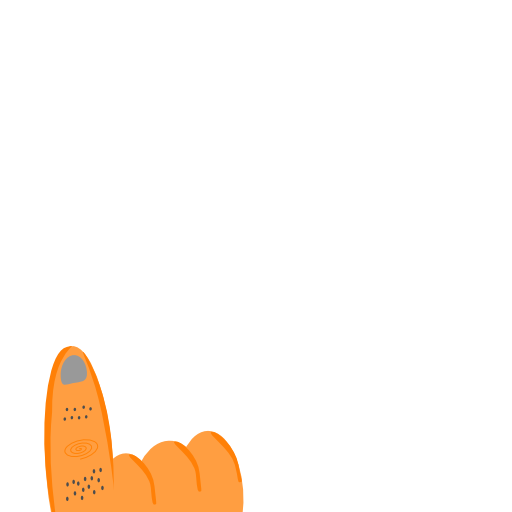
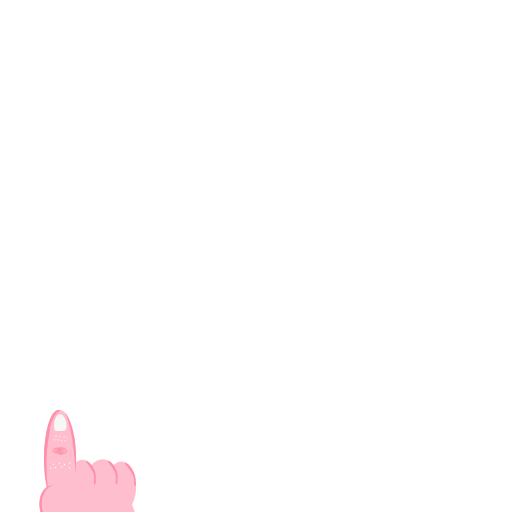
add new texture
for future add other texture for resume quit restart ecc...must fix zoom
font on screen,and locked people must be alert only 1 time and change
font

Changed region(s): [[0.0625, 0.6562, 0.5, 1.0]]

diff --git a/superjumper/src/com/badlogicgames/superjumper/CharScreen.java b/superjumper/src/com/badlogicgames/superjumper/CharScreen.java
@@ -158,7 +158,7 @@ public class CharScreen implements Screen {
 				return;
 			}
 			else if (OverlapTester.pointInRectangle(character, touchPoint.x, touchPoint.y)) {
-				Assets.playSound(Assets.clickSound);
+				//Assets.playSound(Assets.clickSound);
 			if(state==0)state=1;
 			else state=0;
 				return;
@@ -207,9 +207,9 @@ public class CharScreen implements Screen {
 		batcher.draw(Assets.icontextback,0,10,45,45);
 		Assets.font.draw(batcher, "Choose Character", 29,440);
 		Assets.fontsmall.draw(batcher, "GO", 285,40);
-		stateTime=stateTime+0.015f;
+		stateTime=stateTime+0.020f;
 	  TextureRegion keyFrame1 = Assets.swipeAnim.getKeyFrame(stateTime, Animation.ANIMATION_LOOPING);
-		if(stateTime>3)stateTime=0;
+		if(stateTime>4)stateTime=0;
 		if(swipedeactive==0)
 		{
 			batcher.draw(Assets.swipetext,10,0,320,256);
@@ -220,8 +220,9 @@ public class CharScreen implements Screen {
 		batcher.draw(Assets.backgroundRegion10,bobfem.position.x ,bobfem.position.y ,130,130);
 		if(punteggio<1000 && state==0)
 		{
-			Assets.fontsmall.draw(batcher, "non puoi scegliere questo personaggio", guiCam.position.x-150,guiCam.position.y);
-			Assets.fontsmall.draw(batcher, "devi guadagnare almeno 1000 punti", guiCam.position.x-150,guiCam.position.y-150);
+			batcher.draw(Assets.lock,bobfem.position.x-10 ,bobfem.position.y+30 ,100,100);
+			batcher.draw(Assets.locked,bobfem.position.x-45,bobfem.position.y-70 ,170,150);
+			Assets.fontsmall.draw(batcher, "need 1000 scores", guiCam.position.x-100,guiCam.position.y-200);
 		}
 	
 		

diff --git a/superjumper/src/com/badlogicgames/superjumper/Assets.java b/superjumper/src/com/badlogicgames/superjumper/Assets.java
@@ -64,6 +64,8 @@ public class Assets {
 	public static Texture SoundOff;
 	public static Texture tmptext;
 	public static Texture tmptext1;
+	public static Texture lock,locked;
+	public static Texture welcome;
 	public static Texture swipetext,swipe,swipe1,swipe2;
 	public static TextureRegion starRegion;
 	public static TextureRegion bubbles;
@@ -179,6 +181,9 @@ public class Assets {
 		swipe1=loadTexture("data/swipe1.png");
 		swipe2=loadTexture("data/swipe2.png");
 		swipetext=loadTexture("data/swipetext.png");
+		lock=loadTexture("data/lock.png");
+		locked=loadTexture("data/locked.png");
+		welcome=loadTexture("data/welcome.png");
 	SetFilter();//setto i filtri sulle texture
 		//load texture region,animation & sound
 		items = loadTexture("data/items.png");
@@ -239,6 +244,8 @@ public class Assets {
 
 
 	private static void SetFilter(){
+		lock.setFilter(TextureFilter.Linear, TextureFilter.Linear);
+		locked.setFilter(TextureFilter.Linear, TextureFilter.Linear);
 		swipe.setFilter(TextureFilter.Linear, TextureFilter.Linear);
 		swipe1.setFilter(TextureFilter.Linear, TextureFilter.Linear);
 		swipe2.setFilter(TextureFilter.Linear, TextureFilter.Linear);

diff --git a/superjumper/src/com/badlogicgames/superjumper/Settings.java b/superjumper/src/com/badlogicgames/superjumper/Settings.java
@@ -67,6 +67,46 @@ public class Settings {
 			}
 		}
 	}
+	
+	
+	public static void saveFloat (float i) {
+		BufferedWriter out = null;
+		try {
+			out = new BufferedWriter(new OutputStreamWriter(Gdx.files.external(file).write(false)));
+			
+				out.write(Float.toString(i));
+				out.write("\n");
+			
+
+		} catch (Throwable e) {
+		} finally {
+			try {
+				if (out != null) out.close();
+			} catch (IOException e) {
+			}
+		}
+	}
+	
+	
+
+	public static float readFloat () {
+		BufferedReader in = null;
+		float h = 0 ;
+		try {
+			in = new BufferedReader(new InputStreamReader(Gdx.files.external(file).read()));
+			
+				h = Float.parseFloat(in.readLine());
+			
+		} catch (Throwable e) {
+			// :( It's ok we have defaults
+		} finally {
+			try {
+				if (in != null) in.close();
+			} catch (IOException e) {
+			}
+		}
+		return h;
+	}
 
 	public static void addScore (int score) {
 		for (int i = 0; i < 5; i++) {

diff --git a/superjumper/src/com/badlogicgames/superjumper/FirstScreen.java b/superjumper/src/com/badlogicgames/superjumper/FirstScreen.java
@@ -71,8 +71,8 @@ public class FirstScreen implements Screen {
 		batcher.setProjectionMatrix(guiCam.combined);
 		batcher.disableBlending();
 		batcher.begin();
-		//batcher.draw(helpRegion, 0, 0, 320, 480);
-		MainMenuScreen.drawGradient(batcher, Assets.rect, 0, 0, 320, 480,Color.BLACK,Assets.colore, false);
+		batcher.draw(Assets.welcome, 0, 0, 512,512);
+		//MainMenuScreen.drawGradient(batcher, Assets.rect, 0, 0, 320, 480,Color.BLACK,Assets.colore, false);
 		
 		batcher.end();
 
@@ -107,7 +107,6 @@ public class FirstScreen implements Screen {
 
 	@Override
 	public void pause () {
-		helpImage.dispose();
 	}
 
 	@Override

diff --git a/superjumper/src/com/badlogicgames/superjumper/GameScreen.java b/superjumper/src/com/badlogicgames/superjumper/GameScreen.java
@@ -353,10 +353,13 @@ public class GameScreen implements Screen {
 
 	@Override
 	public void hide () {
+		//Settings.addScore(world.score);
+		//Settings.save();
 	}
 
 	@Override
 	public void pause () {
+		Settings.addScore(world.score);
 		Settings.save();
 		if (state == GAME_RUNNING) state = GAME_PAUSED;
 	}

diff --git a/superjumper/src/com/badlogicgames/superjumper/MainMenuScreen.java b/superjumper/src/com/badlogicgames/superjumper/MainMenuScreen.java
@@ -147,7 +147,6 @@ public class MainMenuScreen implements Screen {
 
 	@Override
 	public void render (float delta) {
-
 		update(delta);
 		draw(delta);
 	}
